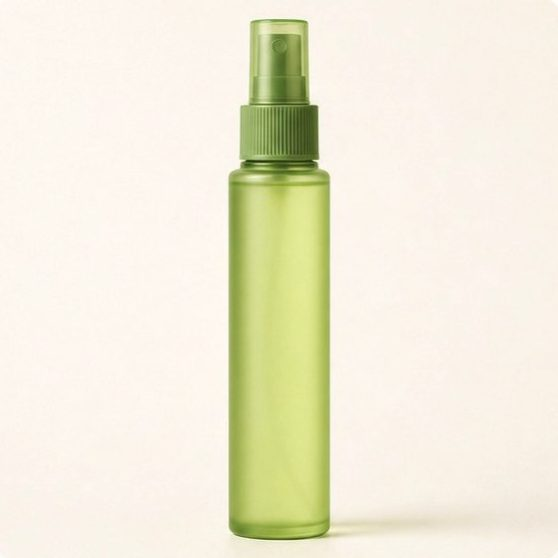
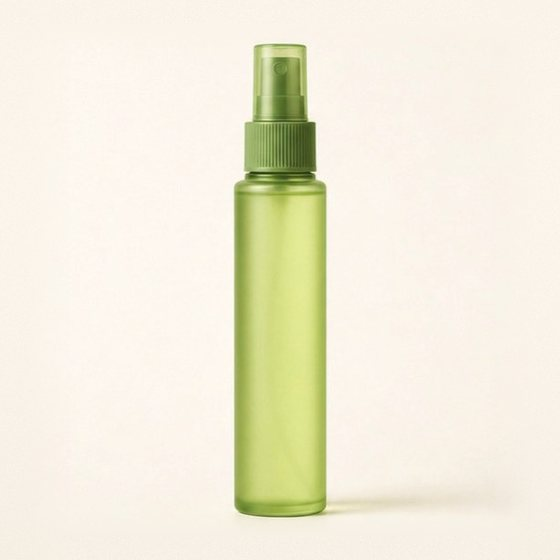
Show every product uncropped and add a branded delivery photo
- Journey sampling and packaging photos are rebuilt from the profile
  tiles by extending the backdrop sideways instead of cropping, so the
  dropper, bottle and tube show top to bottom.
- Product, packaging and catalog tiles are re-exported with an even
  margin above and below each container.
- The profile's card photos for body care, shower and tan bleed off
  their frame (and the blush is cut at the base), so those catalog
  groups now use complete shots of similar containers from the profile.
- "Labels & Boxes" uses a square crop that shows the whole blank box.
- Delivery step: a box truck with the Awal Helm logo and livery,
  carrying branded cartons, with the street background softened.

Claude-Session: https://claude.ai/code/session_01HNBKby6n6fVEUZsToFNWVA

Changed region(s): [[0.3961, 0.0305, 0.853, 0.9749]]

diff --git a/src/components/media.js b/src/components/media.js
@@ -1,12 +1,13 @@
-// Image sets shared across sections. Product and packaging photos come from the company profile.
+// Image sets shared across sections. Product and packaging photos come from the company profile;
+// the profile's card photos that bleed off their frame are replaced by complete shots of similar containers.
 import stepConcept from '../assets/profile/step-concept.jpg';
 import stepSampling from '../assets/profile/step-sampling.jpg';
 import stepPackaging from '../assets/profile/step-packaging.jpg';
 import formulation from '../assets/stock/formulation.jpg';
 import launch from '../assets/stock/launch.jpg';
 import manufacturing from '../assets/stock/manufacturing.jpg';
-import lineup from '../assets/stock/about.jpg';
-import blankBox from '../assets/stock/hero-lab.jpg';
+import delivery from '../assets/stock/delivery.jpg';
+import blankBox from '../assets/stock/labels-box.jpg';
 
 import packBottle from '../assets/profile/pack-bottle.jpg';
 import packJar from '../assets/profile/pack-jar.jpg';
@@ -19,18 +20,15 @@ import skin1 from '../assets/profile/skin-1.jpg';
 import skin2 from '../assets/profile/skin-2.jpg';
 import skin3 from '../assets/profile/skin-3.jpg';
 import skin4 from '../assets/profile/skin-4.jpg';
-import body1 from '../assets/profile/body-1.jpg';
-import body2 from '../assets/profile/body-2.jpg';
-import body3 from '../assets/profile/body-3.jpg';
-import body4 from '../assets/profile/body-4.jpg';
+import catPump from '../assets/profile/cat-pump.jpg';
+import catDropper from '../assets/profile/cat-dropper.jpg';
+import catDarkPump from '../assets/profile/cat-dark-pump.jpg';
+import catStick from '../assets/profile/cat-stick.jpg';
 import relax1 from '../assets/profile/relax-1.jpg';
 import relax2 from '../assets/profile/relax-2.jpg';
 import relax3 from '../assets/profile/relax-3.jpg';
 import relax4 from '../assets/profile/relax-4.jpg';
 import shower1 from '../assets/profile/shower-1.jpg';
-import shower2 from '../assets/profile/shower-2.jpg';
-import shower3 from '../assets/profile/shower-3.jpg';
-import shower4 from '../assets/profile/shower-4.jpg';
 import hair1 from '../assets/profile/hair-1.jpg';
 import hair2 from '../assets/profile/hair-2.jpg';
 import hair3 from '../assets/profile/hair-3.jpg';
@@ -39,12 +37,9 @@ import hair5 from '../assets/profile/hair-5.jpg';
 import hair6 from '../assets/profile/hair-6.jpg';
 import hair7 from '../assets/profile/hair-7.jpg';
 import hair8 from '../assets/profile/hair-8.jpg';
-import tan1 from '../assets/profile/tan-1.jpg';
-import tan2 from '../assets/profile/tan-2.jpg';
-import tan3 from '../assets/profile/tan-3.jpg';
 
 // One image per partnership-journey step, in step order.
-export const JOURNEY_IMAGES = [stepConcept, formulation, stepSampling, stepPackaging, launch, manufacturing, lineup];
+export const JOURNEY_IMAGES = [stepConcept, formulation, stepSampling, stepPackaging, launch, manufacturing, delivery];
 
 export const MANUFACTURING_IMAGE = manufacturing;
 
@@ -60,18 +55,18 @@ export const PACKAGING_IMAGES = {
 
 export const CATALOG_IMAGES = {
   skin: [skin1, skin2, skin3, skin4],
-  body: [body1, body2, body3, body4],
+  body: [catPump, catDropper],
   relax: [relax1, relax2, relax3, relax4],
-  shower: [shower1, shower2, shower3, shower4],
+  shower: [shower1, catDarkPump],
   hair: [hair1, hair2, hair3, hair4, hair5, hair6, hair7, hair8],
-  tan: [tan1, tan2, tan3],
+  tan: [catStick, packJar],
 };
 
 export const CATALOG_COVERS = {
   skin: skin4,
-  body: body1,
+  body: catPump,
   relax: relax3,
   shower: shower1,
   hair: hair4,
-  tan: tan2,
+  tan: catStick,
 };

diff --git a/src/components/Catalog.jsx b/src/components/Catalog.jsx
@@ -38,14 +38,9 @@ function CatalogGroup({ group, index, itemsLabel }) {
       </Reveal>
 
       <Reveal y={30} className={`lg:col-span-5 ${flip ? 'lg:order-2' : ''}`}>
-        <div className="grid grid-cols-2 gap-3 sm:grid-cols-4 lg:grid-cols-2">
+        <div className={`grid grid-cols-2 gap-3 ${images.length >= 4 ? 'sm:grid-cols-4 lg:grid-cols-2' : ''}`}>
           {images.map((src, i) => (
-            <div
-              key={src}
-              className={`overflow-hidden rounded-2xl bg-[#f6f1e4] ${
-                images.length === 3 && i === 0 ? 'col-span-2 aspect-[2/1]' : 'aspect-square'
-              }`}
-            >
+            <div key={src} className="aspect-square overflow-hidden rounded-2xl bg-[#f6f1e4]">
               <img src={src} alt={`${group.title} ${i + 1}`} loading="lazy" className="h-full w-full object-cover" />
             </div>
           ))}
